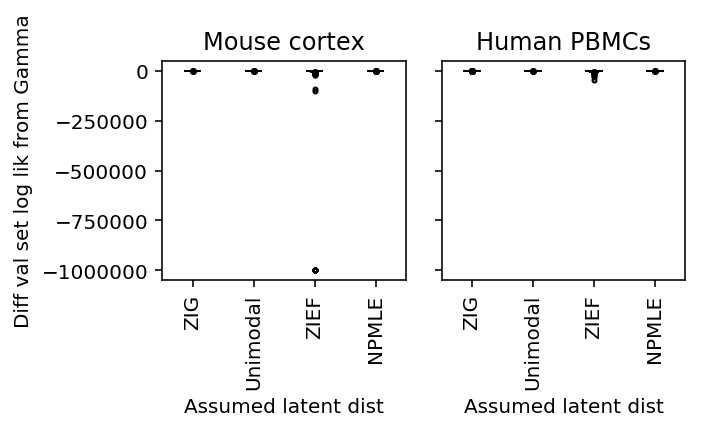
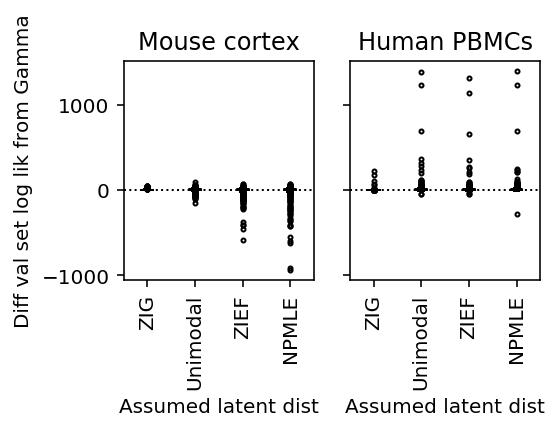
Republish

diff --git a/docs/deconvolution.html b/docs/deconvolution.html
@@ -1,7 +1,7 @@
 <!DOCTYPE html>
 <html lang="en">
 <head>
-<!-- 2019-05-18 Sat 22:04 -->
+<!-- 2019-05-20 Mon 14:54 -->
 <meta charset="utf-8">
 <meta name="viewport" content="width=device-width, initial-scale=1">
 <title>Comparison of expression deconvolution approaches</title>
@@ -1375,7 +1375,7 @@ EOF
 </div>
 
 <div class="org-src-container">
-<pre class="src src-sh">sbatch --partition=broadwl -a 2 -n1 -c28 --exclusive --mem=32G --time=24:00:00 --job-name=benchmark --output=benchmark-cpu.out
+<pre class="src src-sh">sbatch --partition=broadwl -a 1 -n1 -c28 --exclusive --mem=32G --time=24:00:00 --job-name=benchmark --output=benchmark-cpu.out
 <span class="org-comment-delimiter">#</span><span class="org-comment">!/bin/bash</span>
 <span class="org-builtin">source</span> activate scmodes
 python &lt;&lt;EOF
@@ -1405,10 +1405,12 @@ Plot the results.
 
 <div class="org-src-container">
 <pre class="src src-ipython"><span class="org-variable-name">fig</span>, <span class="org-variable-name">ax</span> = plt.subplots(1, 2, sharey=<span class="org-constant">True</span>)
-fig.set_size_inches(5, 3)
+fig.set_size_inches(4, 3)
 <span class="org-keyword">for</span> a, k, t <span class="org-keyword">in</span> <span class="org-builtin">zip</span>(ax, <span class="org-builtin">sorted</span>(benchmark.keys()), [<span class="org-string">'Mouse cortex'</span>, <span class="org-string">'Human PBMCs'</span>]):
-  a.boxplot(np.ma.masked_invalid((benchmark[f<span class="org-string">'{k}'</span>].values - benchmark[f<span class="org-string">'{k}'</span>][<span class="org-string">'gamma'</span>].values.reshape(-1, 1))[:,1:]).filled(-1e6),
+  <span class="org-variable-name">T</span> = (benchmark[f<span class="org-string">'{k}'</span>].values - benchmark[f<span class="org-string">'{k}'</span>][<span class="org-string">'gamma'</span>].values.reshape(-1, 1))[:,1:]
+  a.boxplot([x[~np.isnan(x)] <span class="org-keyword">for</span> x <span class="org-keyword">in</span> T.T],
             widths=0.25, medianprops={<span class="org-string">'color'</span>: <span class="org-string">'k'</span>}, flierprops={<span class="org-string">'marker'</span>: <span class="org-string">'.'</span>, <span class="org-string">'markersize'</span>: 4})
+  a.axhline(y=0, ls=<span class="org-string">':'</span>, lw=1, c=<span class="org-string">'k'</span>)
   a.set_xticklabels([<span class="org-string">'ZIG'</span>, <span class="org-string">'Unimodal'</span>, <span class="org-string">'ZIEF'</span>, <span class="org-string">'NPMLE'</span>], rotation=90)
   a.set_xlabel(<span class="org-string">'Assumed latent dist'</span>)
   a.set_title(t)
@@ -1429,14 +1431,14 @@ Zoom in on the relevant part of the plot.
 
 <div class="org-src-container">
 <pre class="src src-ipython"><span class="org-variable-name">fig</span>, <span class="org-variable-name">ax</span> = plt.subplots(1, 2)
-fig.set_size_inches(5, 3)
+fig.set_size_inches(4, 3)
 <span class="org-keyword">for</span> a, k, t <span class="org-keyword">in</span> <span class="org-builtin">zip</span>(ax, <span class="org-builtin">sorted</span>(benchmark.keys()), [<span class="org-string">'Mouse cortex'</span>, <span class="org-string">'Human PBMCs'</span>]):
   <span class="org-variable-name">T</span> = np.ma.masked_invalid((benchmark[f<span class="org-string">'{k}'</span>].values - benchmark[f<span class="org-string">'{k}'</span>][<span class="org-string">'gamma'</span>].values.reshape(-1, 1))[:,1:]).filled(-1e6)
   a.boxplot(T, widths=0.25, medianprops={<span class="org-string">'color'</span>: <span class="org-string">'k'</span>}, flierprops={<span class="org-string">'marker'</span>: <span class="org-string">'.'</span>, <span class="org-string">'markersize'</span>: 4})
   a.axhline(y=0, ls=<span class="org-string">':'</span>, lw=1, c=<span class="org-string">'k'</span>)
   a.set_xticklabels([<span class="org-string">'ZIG'</span>, <span class="org-string">'Unimodal'</span>, <span class="org-string">'ZIEF'</span>, <span class="org-string">'NPMLE'</span>], rotation=90)
   a.set_xlabel(<span class="org-string">'Assumed latent dist'</span>)
-  a.set_ylim(-20, 1.05 * T.<span class="org-builtin">max</span>())
+  a.set_ylim(0, 1.05 * T.<span class="org-builtin">max</span>())
   a.set_title(t)
 ax[0].set_ylabel(<span class="org-string">'Diff val set log lik from Gamma'</span>)
 fig.tight_layout()
@@ -1454,7 +1456,7 @@ fig.tight_layout()
 </div>
 <div id="postamble" class="status">
 <p class="author">Author: Abhishek Sarkar</p>
-<p class="date">Created: 2019-05-18 Sat 22:04</p>
+<p class="date">Created: 2019-05-20 Mon 14:54</p>
 <p class="validation"><a href="http://validator.w3.org/check?uri=referer">Validate</a></p>
 </div>
 </body>
